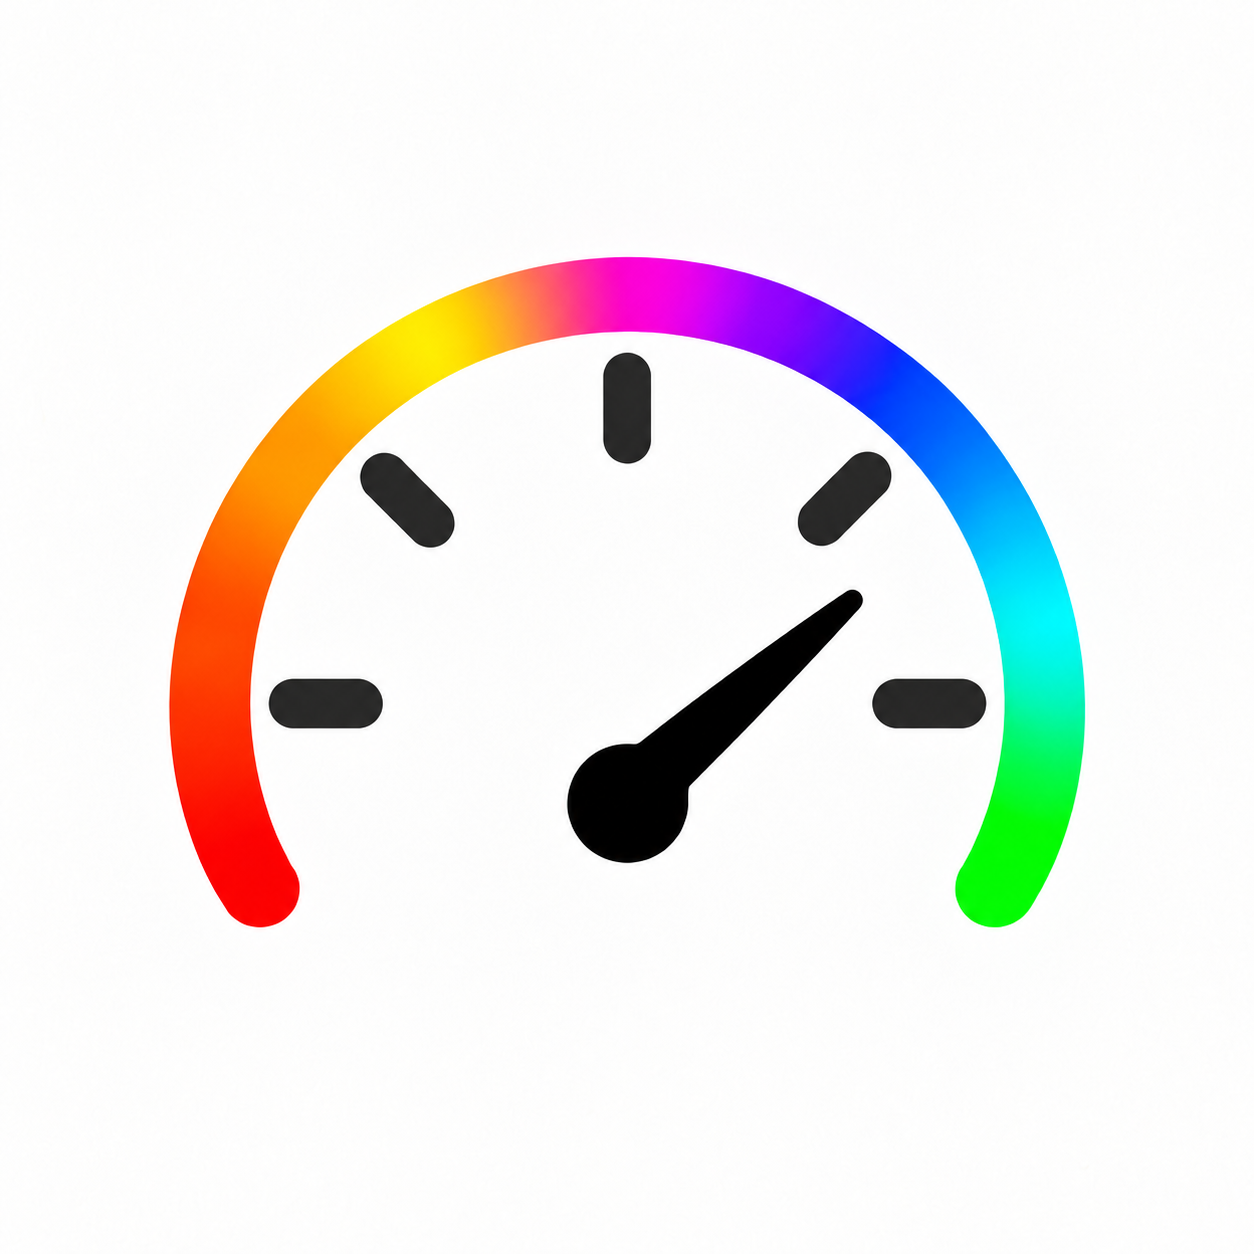
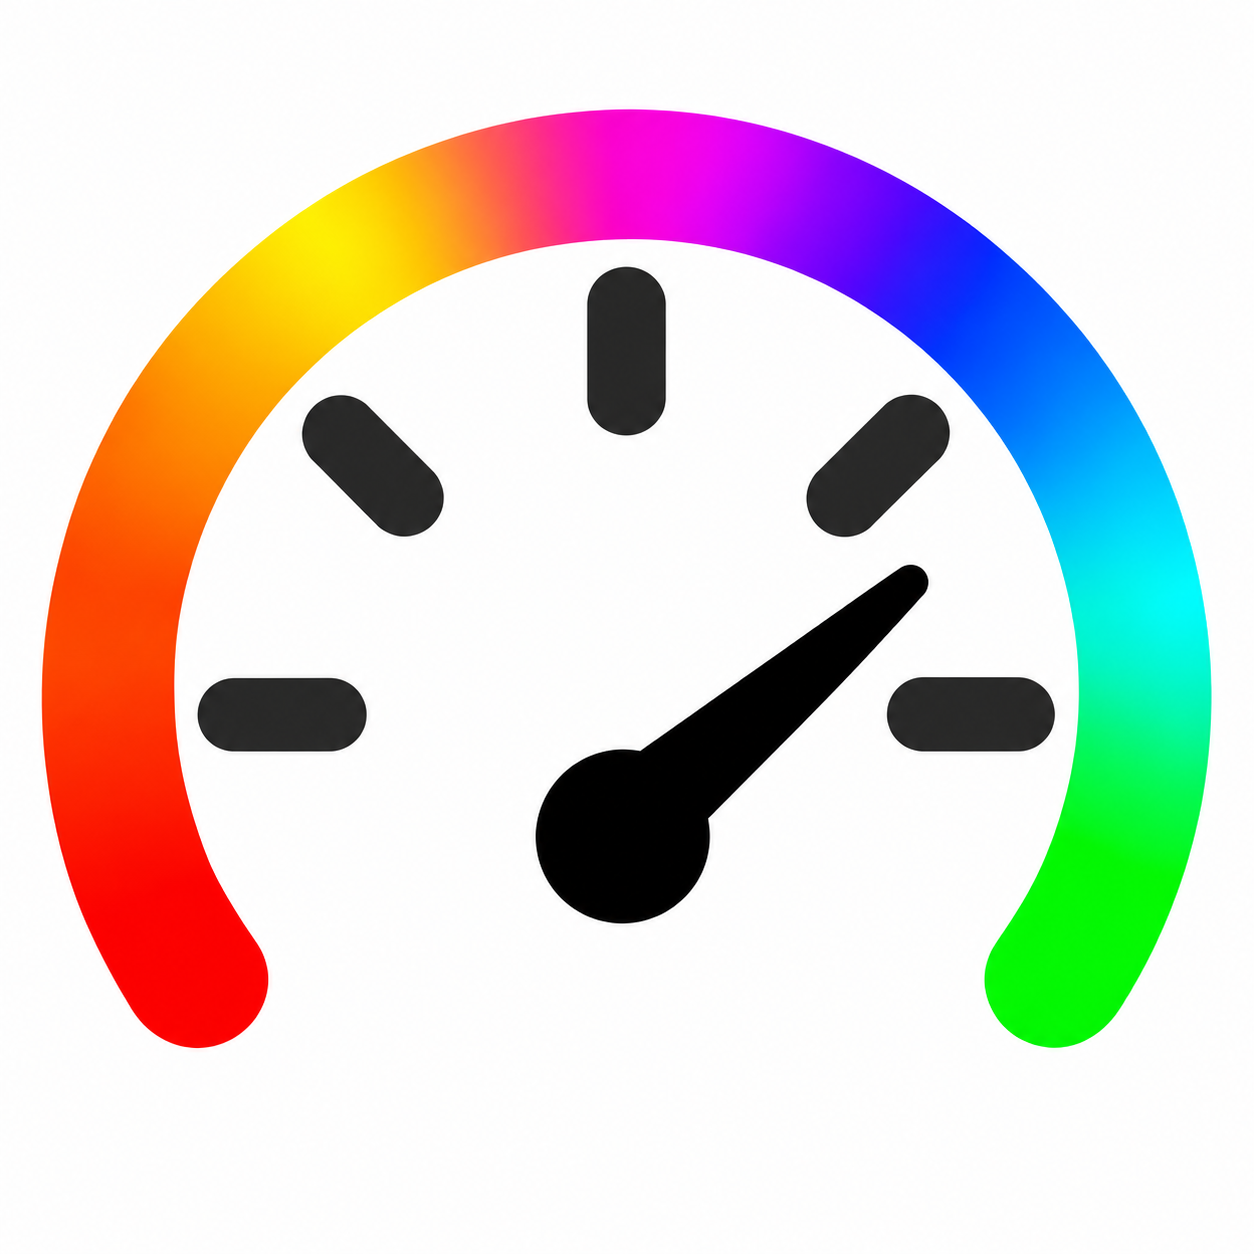
fix(T63): 接入饱满版图标并更新本人手机

diff --git a/Resources/Brand/README.md b/Resources/Brand/README.md
@@ -2,12 +2,14 @@
 
 用户于2026-10-12明确选定并授权保存为本项目App图标。D-70正式显示名称为“Token 仪表盘”；用户随后明确授权同步主App／组件扩展显示名，并覆盖安装本人手机。首次仅保存资源的历史结果见T63追加记录。
 
-- 原始设计：[AppIcon-source.png](AppIcon-source.png)，1254×1254、不透明PNG，与会话最后一张黑色指针版本逐字节一致。
+- 原始设计：[AppIcon-source.png](AppIcon-source.png)，1254×1254、不透明PNG，与用户已确认的饱满版预览逐字节一致。
 - 实际图标：[AppIcon.png](../Assets.xcassets/AppIcon.appiconset/AppIcon.png)，1024×1024、不透明PNG；仅对原图等比缩小，没有重新生成或更改造型。
 - 配置：`AppIcon.appiconset`采用单一iOS通用1024图；主App Debug／Release指定`ASSETCATALOG_COMPILER_APPICON_NAME = AppIcon`，由Xcode生成各显示尺寸。系统处理外部圆角，不在资源里预裁切圆角。
 - 视觉：浅底；汽车仪表的粗弧与五道深灰刻度；指针朝右上、圆形轴心与指针为黑色；外圈从左侧红端，经橙／黄／粉紫／蓝／青，连续渐变到右侧绿端，颜色鲜艳饱满。
-- 生成方式：内置ImageGen，依次选择仪表造型、调整指针和外圈配色；最后一次编辑要求仅将橙色指针及轴心改为纯黑，保留彩色外圈、五道刻度、浅色背景与原布局。
[2 lines of base64/hex data omitted]
+- 生成方式：内置ImageGen，依次选择仪表造型、调整指针和外圈配色；最后一轮依据用户的手机反馈放大主体、减少外侧／内部留白，适度加粗色环／五刻度／指针及轴心；预览已获用户明确确认，配色、黑指针与仪表身份保持。
[2 lines of base64/hex data omitted]
 
 验收与保存范围见[T63记录](../../docs/mvp任务清单/记录/T63-验收.md)。原始设计留在此目录供后续修改，不作为额外运行时资源复制进App。
+
+当前为2026-10-12用户确认的饱满版。此前留白较多的已安装版保存在Git提交f256900，失败／反馈历史在T63记录保留；不将旧SHA当作当前资源校验值。

diff --git a/docs/mvp任务清单/07-教程设置与外观/T63-保存并接入App图标.md b/docs/mvp任务清单/07-教程设置与外观/T63-保存并接入App图标.md
@@ -1,6 +1,6 @@
 # T63 保存并接入App图标
 
-- 状态：待验（2026-10-12，D-70更名／手机更新已核验；手机图标留白反馈待对齐）；用户亲验：图标饱满度未通过；d689c4b及D-70实现与检查历史保留。
+- 状态：已完成（2026-10-12，用户确认饱满版后接入／手机覆盖安装必要检查通过，随本次存档）；用户亲验：预览通过，手机新版本桌面视觉未亲验；旧版不饱满反馈及历史检查保留。
 - 直接前置：[T01](../01-工程与基础/T01-建立工程并在模拟器启动.md)，已完成；实际工程与验收、Git记录已核对。
 - 授权：用户明确“把这个保存到项目中，作为这个项目的app的图标”。
 - 执行规则：[执行约定](../执行约定.md)；[返回总览](../README.md)；[验收记录](../记录/T63-验收.md)。
@@ -36,3 +36,7 @@
 2026-10-12范围答复：用户明确“外侧白边和表盘内部的空白都要减少”。两处减少留白的目标已确认；具体图形修订尚未实施。本轮仍仅对齐，不生成图标或安装新版本。
 
 用户现已授权先出图，并明确满意后才更新App图标。饱满版预览已生成、未接入资源或安装；等待该版明确确认。此前留白范围对齐停点由此接续，具体预览见验收记录，T63仍待验。
+
+2026-10-12最新授权：用户明确“可以，更新到手机的App上”。饱满版预览已确认，满足上一节先确认再替换的条件；本轮接入该版本、签名构建、同Bundle覆盖安装本人手机并普通启动。名称保持Token 仪表盘，保持业务与数据身份，不卸载、不操作账户／权限／组件配置。
+
+饱满版接入已完成：源图与确认预览一致，1024不透明资源及比例目视通过，签名Release／完整验签／本人手机同Bundle覆盖安装／元数据／普通启动均通过。手机桌面视觉仍单列待本人反馈，旧反馈保留；本轮存档`fix(T63): 接入饱满版图标并更新本人手机`。

diff --git a/AGENTS.md b/AGENTS.md
@@ -128,3 +128,5 @@ D-64（2026-10-11）：移除小／中号组件上的圆圈切换按钮，不替
 用户先选定并授权保存彩色汽车仪表图标：鲜艳连续渐变粗弧左红右绿，五道深灰刻度，右上黑色指针及圆形轴心，浅底。随后明确更新本人手机图标，App显示名称定为“Token 仪表盘”（Token与中文之间一个空格）。主App与组件扩展的显示名同步，教程搜索继续读取实际Bundle显示名；已指定的教程句子保持。
 
 用户已授权签名构建、同Bundle覆盖安装及普通启动核验；保持工程名、Bundle标识、App Group、钥匙串和账户／组件配置，不卸载、不增加产品功能，不改Figma。D-69中暂不落项目名称／不改名仅描述当时范围，由本决定取代；T63首次未安装记录保留。本条是已批准规则，实际实施／自验／用户亲验仍见T63记录与项目进度。
+
+2026-10-12 D-70图标饱满修订：用户确认外侧白边与内部空白均减少，查看主体放大／色环及刻度指针更厚实的预览后明确“可以，更新到手机的App上”。先确认再替换的条件已满足，授权T63接入同一饱满版及本人手机覆盖更新；保持Token 仪表盘名称、原配色／五刻度／黑指针、业务与数据身份，实际验收见T63追加记录。

diff --git a/docs/decisions.md b/docs/decisions.md
@@ -239,3 +239,5 @@ D-64（2026-10-11）：移除小／中号组件上的圆圈切换按钮，不替
 用户先选定并授权保存彩色汽车仪表图标：鲜艳连续渐变粗弧左红右绿，五道深灰刻度，右上黑色指针及圆形轴心，浅底。随后明确更新本人手机图标，App显示名称定为“Token 仪表盘”（Token与中文之间一个空格）。主App与组件扩展的显示名同步，教程搜索继续读取实际Bundle显示名；已指定的教程句子保持。
 
 用户已授权签名构建、同Bundle覆盖安装及普通启动核验；保持工程名、Bundle标识、App Group、钥匙串和账户／组件配置，不卸载、不增加产品功能，不改Figma。D-69中暂不落项目名称／不改名仅描述当时范围，由本决定取代；T63首次未安装记录保留。本条是已批准规则，实际实施／自验／用户亲验仍见T63记录与项目进度。
+
+2026-10-12 D-70图标饱满修订：用户确认外侧白边与内部空白均减少，查看主体放大／色环及刻度指针更厚实的预览后明确“可以，更新到手机的App上”。先确认再替换的条件已满足，授权T63接入同一饱满版及本人手机覆盖更新；保持Token 仪表盘名称、原配色／五刻度／黑指针、业务与数据身份，实际验收见T63追加记录。

diff --git a/README.md b/README.md
@@ -16,7 +16,7 @@
 
 ### App图标
 
-已接入用户选定的彩色渐变汽车仪表图标：左端红色、右端绿色，五道深灰刻度与黑色指针／轴心。原始设计和实际图标保存在[品牌资源](Resources/Brand/README.md)，主App Debug／Release使用同一AppIcon；重新构建安装后生效。D-70已同步主App／组件显示名并覆盖安装本人手机，系统元数据与普通启动核验通过；结果见[T63验收](docs/mvp任务清单/记录/T63-验收.md)。
+已接入用户确认的饱满版彩色渐变汽车仪表图标：主体放大、外侧及内部留白减少，色环／刻度／指针更厚实；左端红色、右端绿色，五道深灰刻度与黑色指针／轴心。原始设计和实际图标保存在[品牌资源](Resources/Brand/README.md)，主App Debug／Release使用同一AppIcon；重新构建安装后生效。D-70已同步主App／组件显示名并覆盖安装本人手机，系统元数据与普通启动核验通过；结果见[T63验收](docs/mvp任务清单/记录/T63-验收.md)。
 
 ### 小号与中号桌面组件
 
